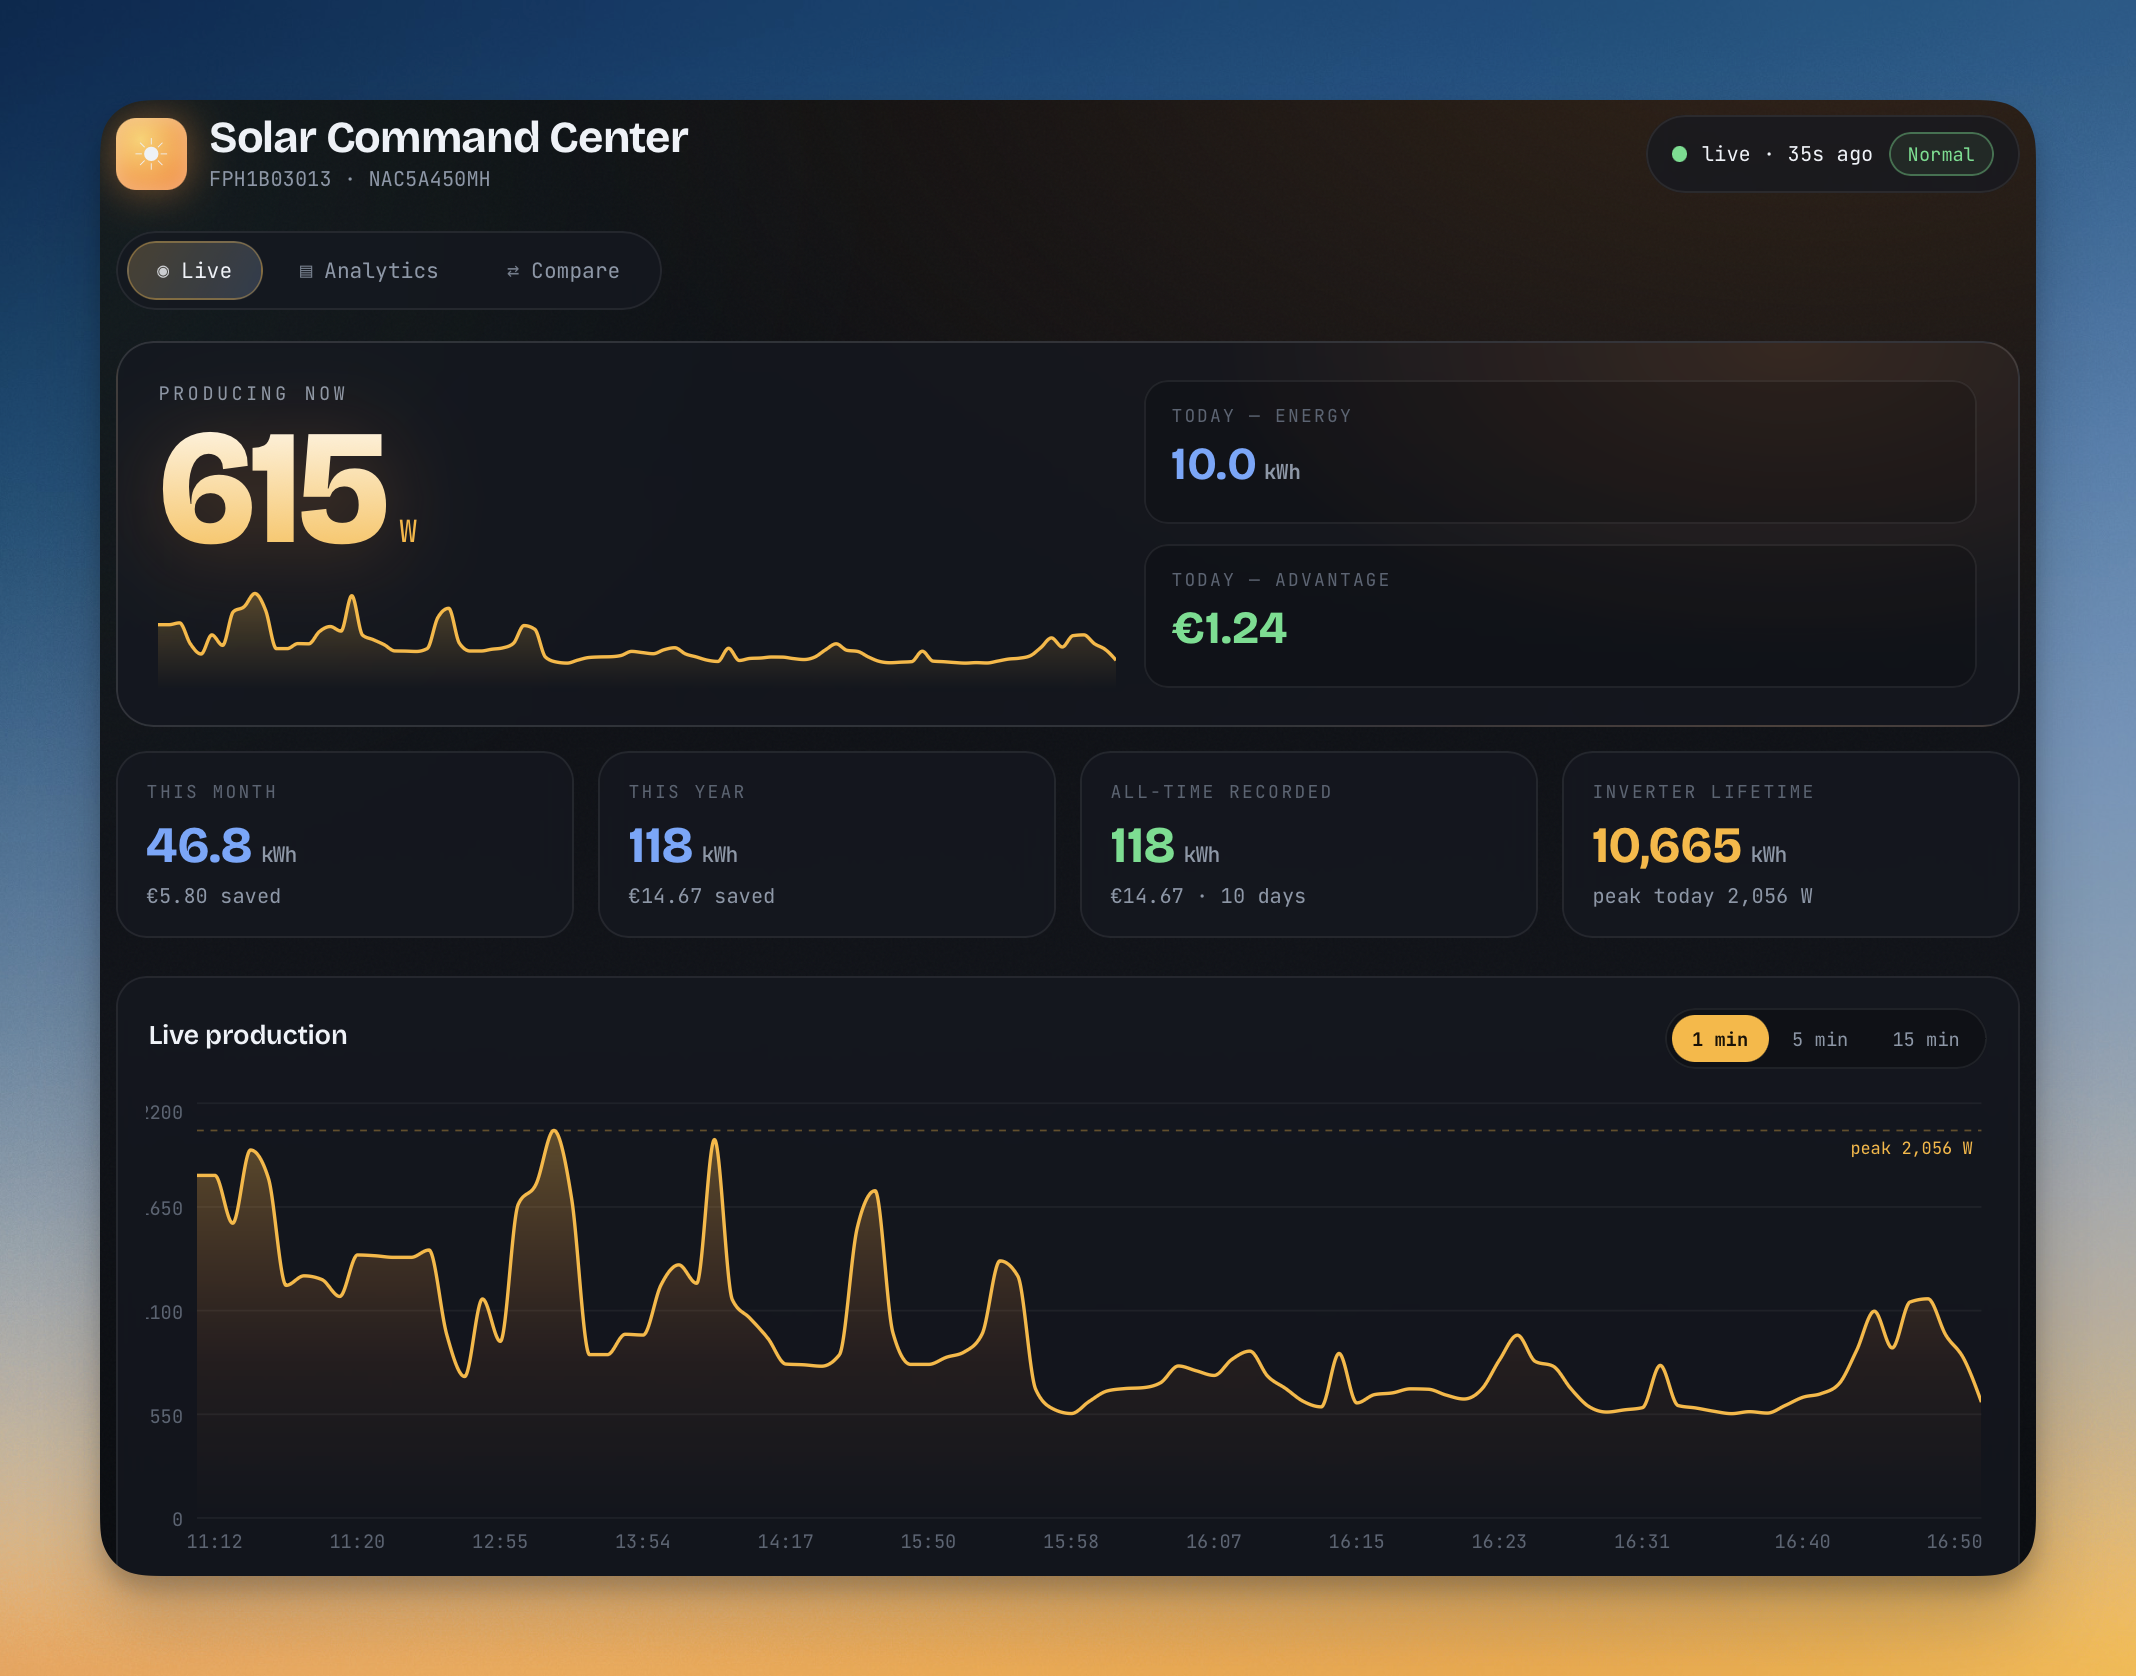
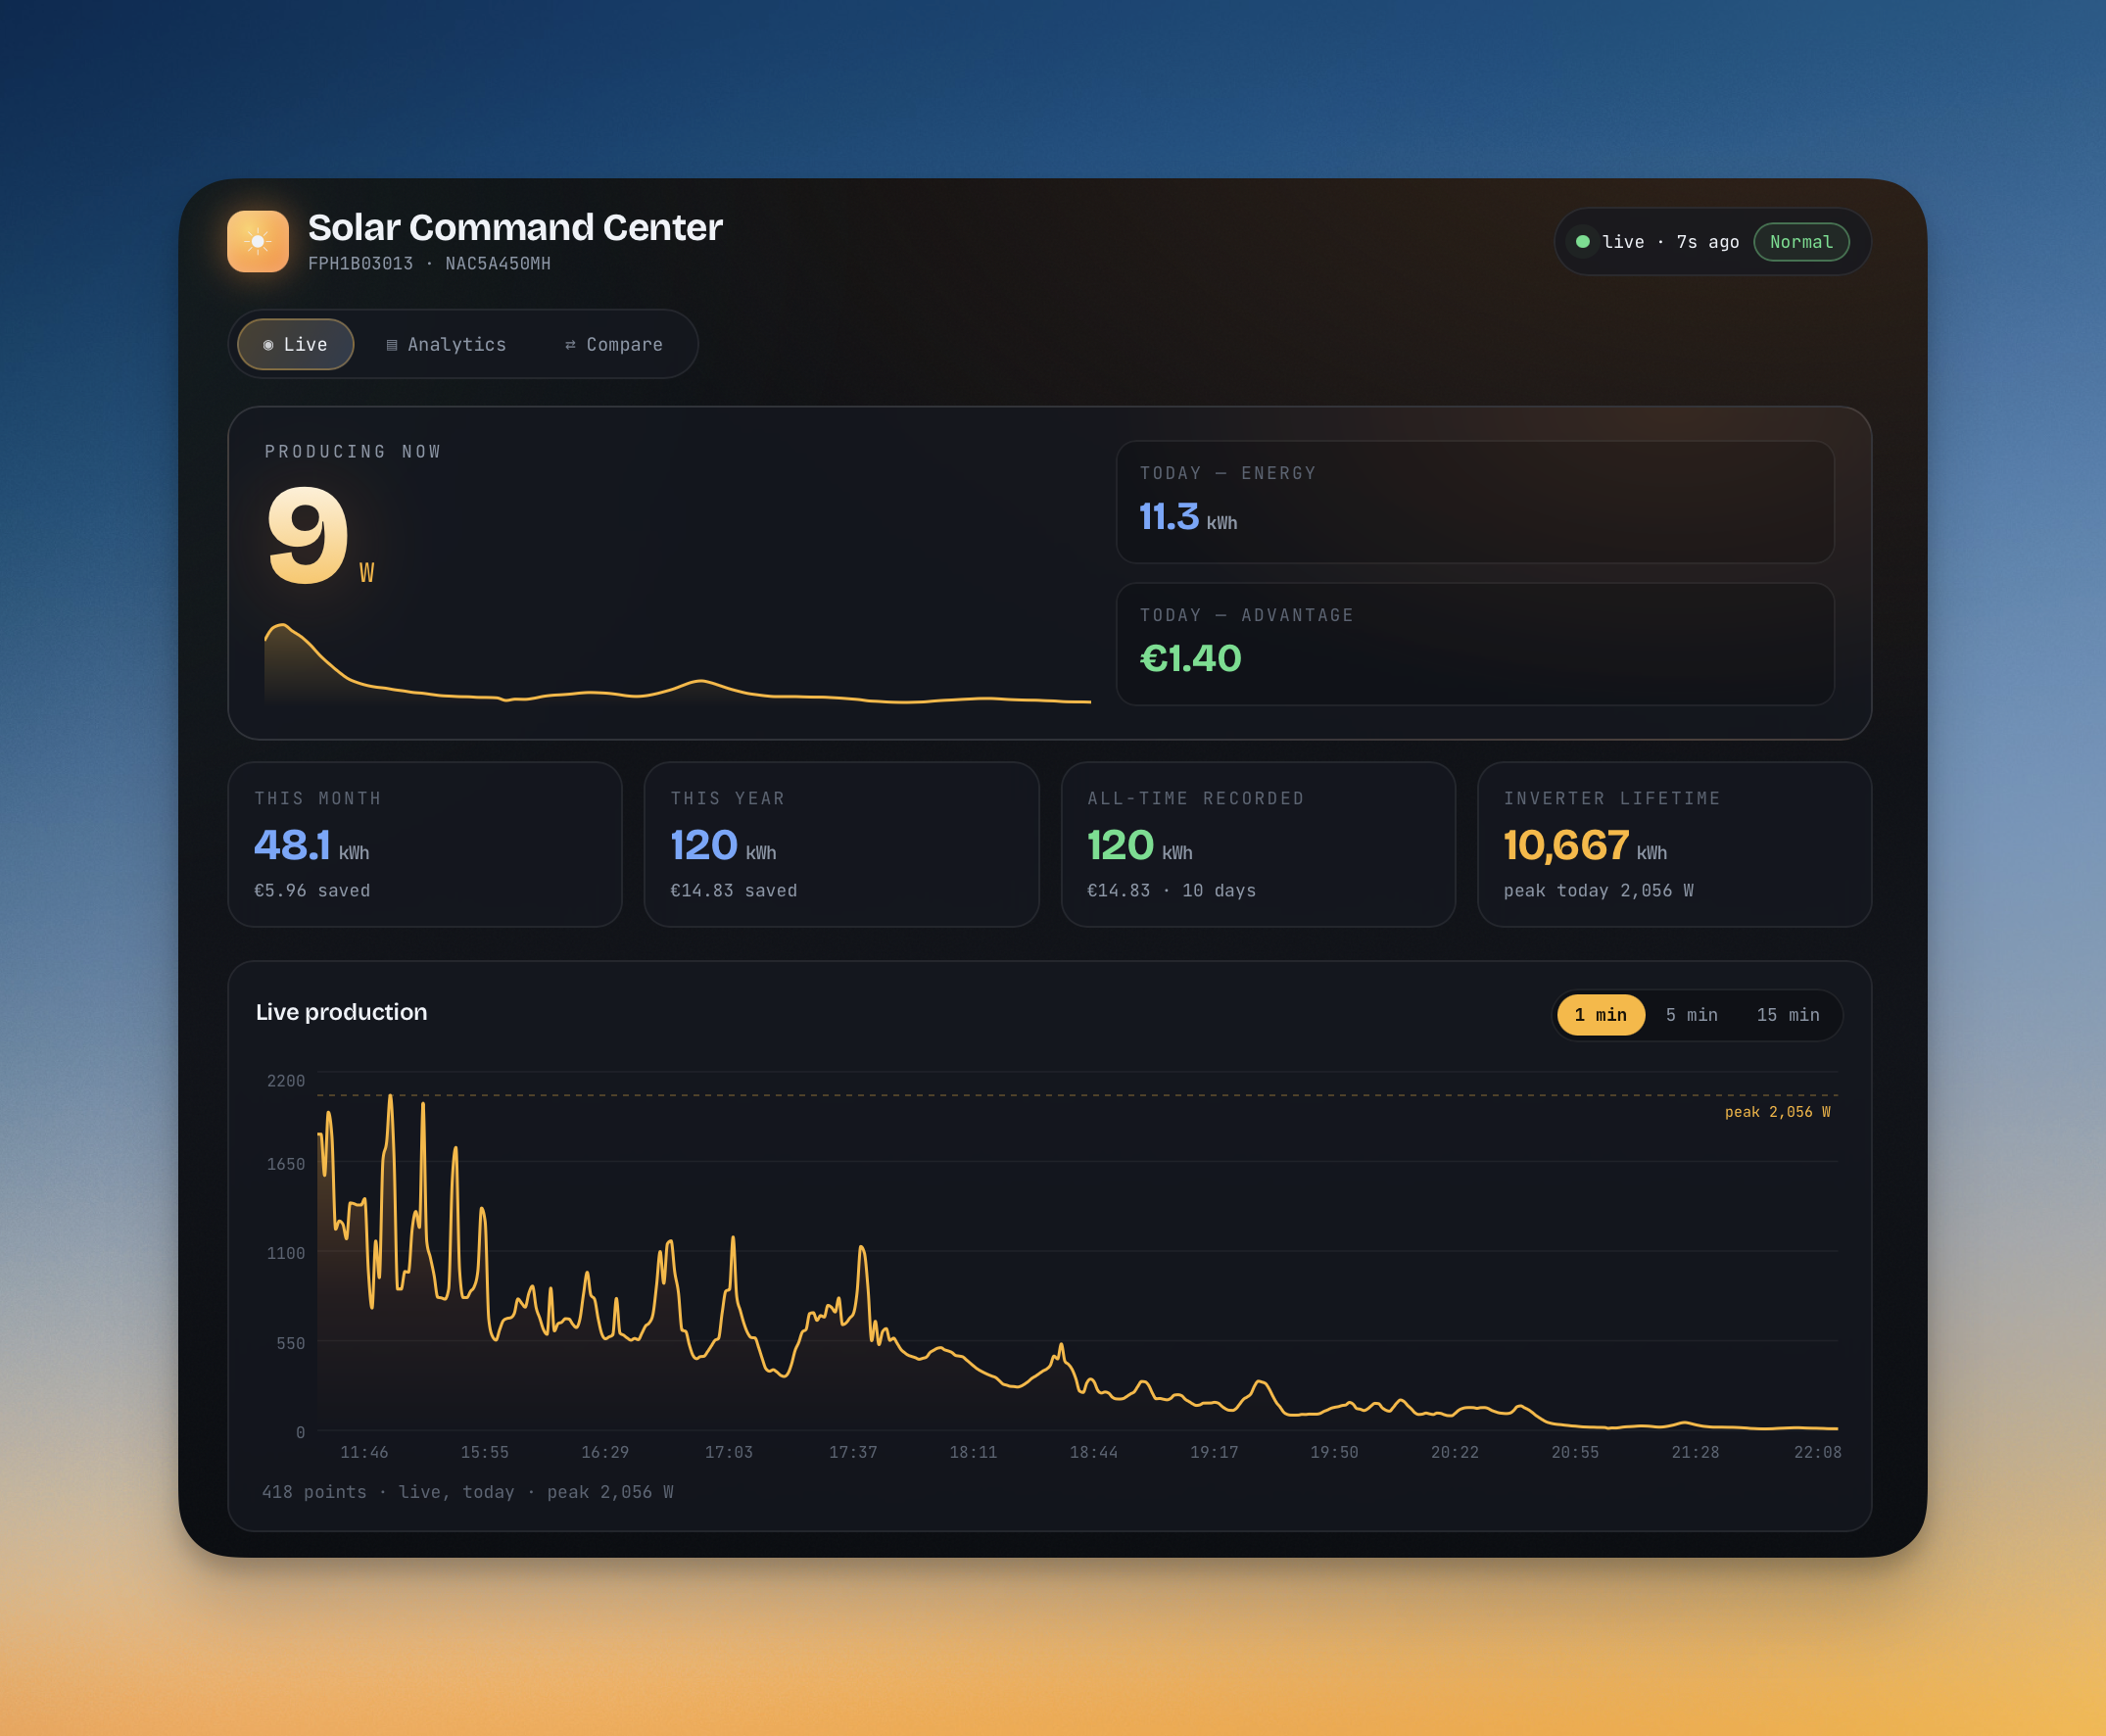
Fix clipped chart y-axis labels, wire .env into compose, update docs
- Reduce negative left margin on all recharts so wide y-axis values
  (e.g. 2200) are no longer clipped
- docker-compose: load settings from optional .env via env_file, pin
  container-specific SOLAR_DB/SOLAR_WEB_HOST, parametrize web port
- gitignore .env (holds logger admin credentials)
- Replace dashboard screenshot; drop stale env-vars line from README

Claude-Session: https://claude.ai/code/session_012Tgm6F1JFf8i6niQnsggd5

diff --git a/web/frontend/src/Compare.jsx b/web/frontend/src/Compare.jsx
@@ -146,7 +146,7 @@ function CompareDays({ dates }) {
 
       <div style={{ height: 300 }}>
         <ResponsiveContainer width="100%" height="100%">
-          <LineChart data={merged} margin={{ top: 6, right: 8, left: -18, bottom: 0 }}>
+          <LineChart data={merged} margin={{ top: 6, right: 8, left: -4, bottom: 0 }}>
             <CartesianGrid stroke="rgba(255,255,255,0.05)" vertical={false} />
             <XAxis dataKey="x" type="number" domain={["dataMin", "dataMax"]} tickFormatter={minuteLabel}
               tick={{ fill: "#5a6473", fontSize: 11, fontFamily: "JetBrains Mono" }} minTickGap={42} axisLine={false} tickLine={false} />
@@ -213,7 +213,7 @@ function CompareMonths() {
 
       <div style={{ height: 240 }}>
         <ResponsiveContainer width="100%" height="100%">
-          <BarChart data={bars} margin={{ top: 6, right: 6, left: -18, bottom: 0 }}>
+          <BarChart data={bars} margin={{ top: 6, right: 6, left: -4, bottom: 0 }}>
             <CartesianGrid stroke="rgba(255,255,255,0.05)" vertical={false} />
             <XAxis dataKey="k" tickFormatter={monthLabel} tick={{ fill: "#8b97a8", fontSize: 12, fontFamily: "JetBrains Mono" }} axisLine={false} tickLine={false} />
             <YAxis tick={{ fill: "#5a6473", fontSize: 11, fontFamily: "JetBrains Mono" }} axisLine={false} tickLine={false} width={46} />
@@ -258,7 +258,7 @@ function CompareYears() {
       </div>
       <div style={{ height: 320 }}>
         <ResponsiveContainer width="100%" height="100%">
-          <LineChart data={rows} margin={{ top: 6, right: 8, left: -18, bottom: 0 }}>
+          <LineChart data={rows} margin={{ top: 6, right: 8, left: -4, bottom: 0 }}>
             <CartesianGrid stroke="rgba(255,255,255,0.05)" vertical={false} />
             <XAxis dataKey="mo" tick={{ fill: "#5a6473", fontSize: 11, fontFamily: "JetBrains Mono" }} axisLine={false} tickLine={false} />
             <YAxis tick={{ fill: "#5a6473", fontSize: 11, fontFamily: "JetBrains Mono" }} axisLine={false} tickLine={false} width={48} />

diff --git a/web/frontend/src/Analytics.jsx b/web/frontend/src/Analytics.jsx
@@ -71,7 +71,7 @@ function MonthlyChart() {
       </div>
       <div style={{ height: 260 }}>
         <ResponsiveContainer width="100%" height="100%">
-          <BarChart data={months} margin={{ top: 18, right: 6, left: -18, bottom: 0 }}>
+          <BarChart data={months} margin={{ top: 18, right: 6, left: -4, bottom: 0 }}>
             <defs>
               <linearGradient id="moGrad" x1="0" y1="0" x2="0" y2="1">
                 <stop offset="0%" stopColor="#ffb627" stopOpacity={0.95} />

diff --git a/web/frontend/src/HistoryChart.jsx b/web/frontend/src/HistoryChart.jsx
@@ -30,7 +30,7 @@ export default function HistoryChart() {
       </div>
       <div style={{ height: 240 }}>
         <ResponsiveContainer width="100%" height="100%">
-          <ComposedChart data={days} margin={{ top: 6, right: 4, left: -20, bottom: 0 }}>
+          <ComposedChart data={days} margin={{ top: 6, right: 4, left: -4, bottom: 0 }}>
             <defs>
               <linearGradient id="barGrad" x1="0" y1="0" x2="0" y2="1">
                 <stop offset="0%" stopColor="#6ea8fe" stopOpacity={0.95} />

diff --git a/web/frontend/src/ProductionChart.jsx b/web/frontend/src/ProductionChart.jsx
@@ -63,7 +63,7 @@ export default function ProductionChart({ dates, lockToday = false, title = "Pro
 
       <div style={{ height: 280 }}>
         <ResponsiveContainer width="100%" height="100%">
-          <AreaChart data={pts} margin={{ top: 6, right: 6, left: -18, bottom: 0 }}>
+          <AreaChart data={pts} margin={{ top: 6, right: 6, left: -4, bottom: 0 }}>
             <defs>
               <linearGradient id="solarFill" x1="0" y1="0" x2="0" y2="1">
                 <stop offset="0%" stopColor="#ffb627" stopOpacity={0.55} />

diff --git a/README.md b/README.md
@@ -39,7 +39,6 @@ git clone [email redacted]:BeppeMarnell/Grott-Dashboard.git
 cd Grott-Dashboard
 cp .env.example .env              # optional: edit tariff, timezone, IPs
 ```
-All settings are env vars — nothing personal is hard-coded.
 
 ## Run it (Docker — recommended)
 ```bash